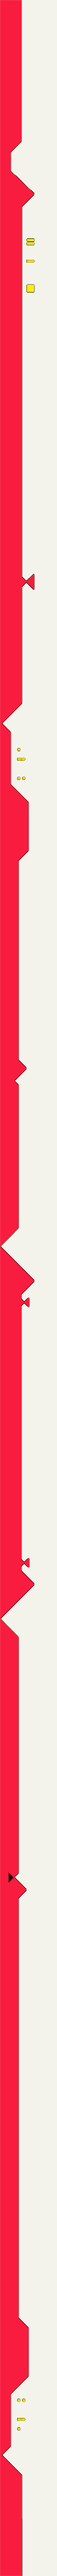
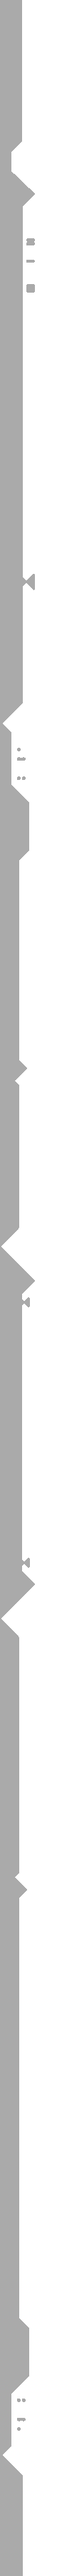
minimal theme
~ updated colour scheme to more white/gray/teal
~ changed font to non-monospace
+ added codeblock for pgp key

diff --git a/style.css b/style.css
@@ -1,9 +1,9 @@
 /*-- Generic Tags ----------------------------------*/
 
 body {
-	background-color: #f4f3eb;
-	color: #590d22;
-	font-family: 'Anonymous Pro', monospace;
+	background-color: #FFFFFF;
+	color: #000000;
+    font-family: "Red Hat Display", sans-serif;
 	margin: 0;
 	padding: 0;
 }
@@ -12,7 +12,7 @@ h1 {
 	font-size: 36px;
 	text-align: center;
 	margin-bottom: 30px;
-	color: #590d22;
+	color: #000000;
 }
 
 p {
@@ -22,12 +22,12 @@ p {
 }
 
 a {
-	color: #ff4d6d;
+	color: #1ABC9C;
 	text-decoration: none;
 }
 
 a:hover {
-	color: #d81159;
+	color: #16A085;
 }
 
 
@@ -43,7 +43,7 @@ a:hover {
 	width: 100%;
 	margin-bottom: 1%;
 	border-radius: 12px;
-	border: 1px solid #441212;
+	border: 1px solid #000000;
 }
 
 .back-button {
@@ -52,10 +52,11 @@ a:hover {
 }
 
 .code {
-	font-family: "JetBrains Mono", monospace;
-	font-size: 13px;
-	color: #000000;
-	background-color: #ffd9d9;
+	/* font-family: "JetBrains Mono", monospace; */
+	font-family: 'Anonymous Pro', monospace;
+	font-size: 15px;
+	color: #505050;
+	background-color: #eeeeee;
 	padding: 3px 7px;
 }
 
@@ -65,6 +66,14 @@ a:hover {
 	margin-left: auto;
 	margin-right: auto;
 	width: 15%;
+}
+
+#pgp {
+    font-family: 'Anonymous Pro', monospace;
+    font-size: 16px;
+    background-color: #eeeeee;
+    padding: 10px 20px;
+    color: #505050;
 }
 
 
@@ -113,17 +122,17 @@ a:hover {
 /*-- Custom Scrollbar: Chrome & Safari -------------*/
 
 body::-webkit-scrollbar {
-	width: 2px;
+	width: 15px;
 }
 
 body::-webkit-scrollbar-track {
-	background: #000000;
+	background: #FFFFFF;
 }
 
 body::-webkit-scrollbar-thumb {
-	background-color: #000000;
+	background-color: #F9F9F9;
 	border-radius: 6px;
-	border: 1px solid #F81B3F;
+	border: 1px solid #1ABC9C;
 }
 
 
@@ -137,7 +146,7 @@ body::-webkit-scrollbar-thumb {
 
 .blinking-underscore {
 	animation: blink 1s infinite;
-	color: #ff4d6d;
+	color: #F39C12;
 }
 
 
@@ -171,7 +180,7 @@ body::-webkit-scrollbar-thumb {
 }
 
 .link-btn {
-	border: 1px solid #ff4d6d;
+	border: 1px solid #1ABC9C;
 	padding: 10px 27px;
 	width: 150px;
 	text-align: center;
@@ -179,6 +188,6 @@ body::-webkit-scrollbar-thumb {
 }
 
 .link-btn:hover {
-	border-color: #d81159;
+	border-color: #16A085;
 }
 

diff --git a/index.html b/index.html
@@ -10,7 +10,7 @@
     <link rel="stylesheet"
           href="https://fonts.googleapis.com/css2?family=Anonymous+Pro">
     <link rel="stylesheet"
-          href="https://fonts.googleapis.com/css2?family=JetBrains+Mono" >
+        href="https://fonts.googleapis.com/css2?family=Red+Hat+Display:wght@300&display=swap" >
 </head>
 
 <body>
@@ -169,7 +169,7 @@
         <!-- Footer -------------------------------------------------------------------->
         <h2>Contact Me</h2>
         <p>
-        Get in touch with me via <a href="mailto:utkarsh_ranjan@protonmail.com"> email</a>,
+        Get in touch with me via <a href="mailto:utkarsh_ranjan@protonmail.com"> Email</a>,
 		Matrix <span class="code">@vimalias:hackliberty.org</span>, or Discord
 		<span class="code">@a.e.s.e.a</span>.
         </p>

diff --git a/pages/pgp.html b/pages/pgp.html
@@ -9,6 +9,8 @@
     <link rel="stylesheet" href="../style.css">
     <link rel="stylesheet"
           href="https://fonts.googleapis.com/css2?family=Anonymous+Pro&display=swap">
+    <link rel="stylesheet"
+        href="https://fonts.googleapis.com/css2?family=Red+Hat+Display:wght@300&display=swap" >
 </head>
 
 
@@ -19,8 +21,7 @@
     <!-- Main Content -->
     <div class="container">
         <a href="../index.html" class="back-button">&#9668; Back to Home</a>
-        <p>
-
+        <p id="pgp">
         -----BEGIN PGP PUBLIC KEY BLOCK-----<br><br>
 
[1 lines of base64/hex data omitted]

diff --git a/404.html b/404.html
@@ -7,8 +7,10 @@
 	<title>Karsh404</title>
 	<link rel="icon" type="image/png" href="../media/favicon.png">
 	<link rel="stylesheet" href="../style.css">
-	<link rel="stylesheet"
-		  href="https://fonts.googleapis.com/css2?family=Anonymous+Pro&display=swap">
+        <link rel="stylesheet"
+          href="https://fonts.googleapis.com/css2?family=Anonymous+Pro">
+    <link rel="stylesheet"
+        href="https://fonts.googleapis.com/css2?family=Red+Hat+Display:wght@300&display=swap" >
 </head>
 
 <body>

diff --git a/projects/all_tasks.html b/projects/all_tasks.html
@@ -8,7 +8,9 @@
     <link rel="icon" type="image/png" href="../media/favicon.png">
     <link rel="stylesheet" href="../style.css">
     <link rel="stylesheet"
-          href="https://fonts.googleapis.com/css2?family=Anonymous+Pro&display=swap">
+          href="https://fonts.googleapis.com/css2?family=Anonymous+Pro">
+    <link rel="stylesheet"
+        href="https://fonts.googleapis.com/css2?family=Red+Hat+Display:wght@300&display=swap" >
 </head>
 
 <body>

diff --git a/projects/all_contributions.html b/projects/all_contributions.html
@@ -9,6 +9,8 @@
     <link rel="stylesheet" href="../style.css">
     <link rel="stylesheet"
           href="https://fonts.googleapis.com/css2?family=Anonymous+Pro&display=swap">
+    <link rel="stylesheet"
+        href="https://fonts.googleapis.com/css2?family=Red+Hat+Display:wght@300&display=swap" >
 </head>
 
 <body>

diff --git a/projects/all_plugins.html b/projects/all_plugins.html
@@ -9,6 +9,8 @@
     <link rel="stylesheet" href="../style.css">
     <link rel="stylesheet"
           href="https://fonts.googleapis.com/css2?family=Anonymous+Pro&display=swap">
+    <link rel="stylesheet"
+        href="https://fonts.googleapis.com/css2?family=Red+Hat+Display:wght@300&display=swap" >
 </head>
 
 <body>

diff --git a/projects/all_projects.html b/projects/all_projects.html
@@ -9,6 +9,8 @@
     <link rel="stylesheet" href="../style.css">
     <link rel="stylesheet"
           href="https://fonts.googleapis.com/css2?family=Anonymous+Pro&display=swap">
+    <link rel="stylesheet"
+        href="https://fonts.googleapis.com/css2?family=Red+Hat+Display:wght@300&display=swap" >
 </head>
 
 <body>

diff --git a/pages/activities.html b/pages/activities.html
@@ -9,6 +9,8 @@
 	<link rel="stylesheet" href="../style.css">
 	<link rel="stylesheet"
 		  href="https://fonts.googleapis.com/css2?family=Anonymous+Pro&display=swap">
+    <link rel="stylesheet"
+        href="https://fonts.googleapis.com/css2?family=Red+Hat+Display:wght@300&display=swap" >
 </head>
 
 <body>

diff --git a/pages/run.html b/pages/run.html
@@ -9,6 +9,8 @@
 	<link rel="stylesheet" href="../style.css">
 	<link rel="stylesheet"
 		  href="https://fonts.googleapis.com/css2?family=Anonymous+Pro&display=swap">
+    <link rel="stylesheet"
+        href="https://fonts.googleapis.com/css2?family=Red+Hat+Display:wght@300&display=swap" >
 </head>
 
 <body>

diff --git a/pages/system.html b/pages/system.html
@@ -9,6 +9,8 @@
 	<link rel="stylesheet" href="../style.css">
 	<link rel="stylesheet"
 		  href="https://fonts.googleapis.com/css2?family=Anonymous+Pro&display=swap">
+    <link rel="stylesheet"
+        href="https://fonts.googleapis.com/css2?family=Red+Hat+Display:wght@300&display=swap" >
 </head>
 
 <body>
